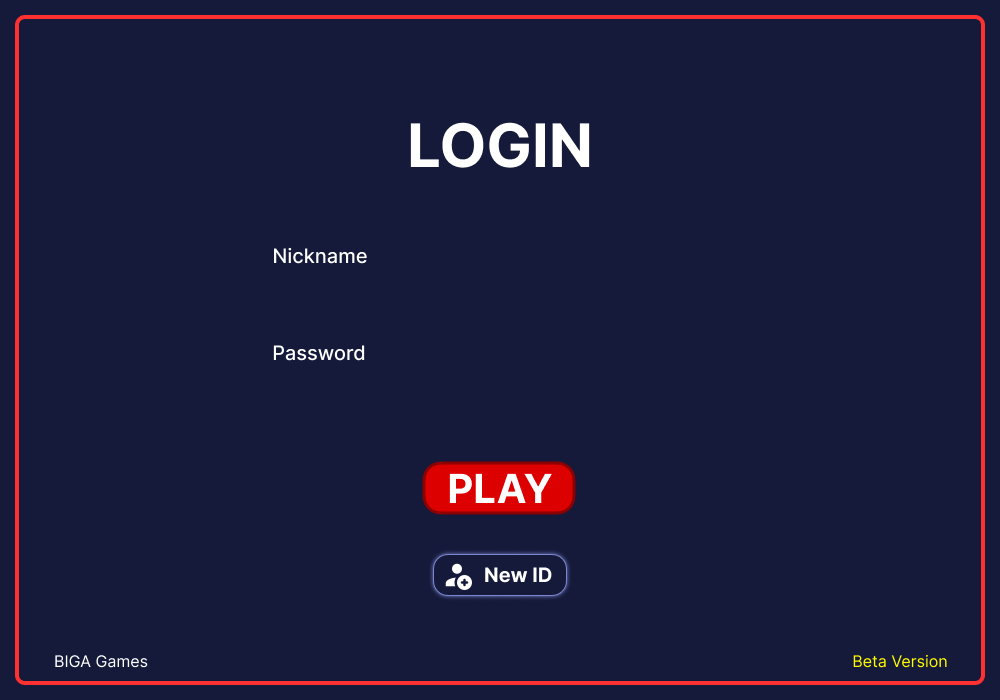
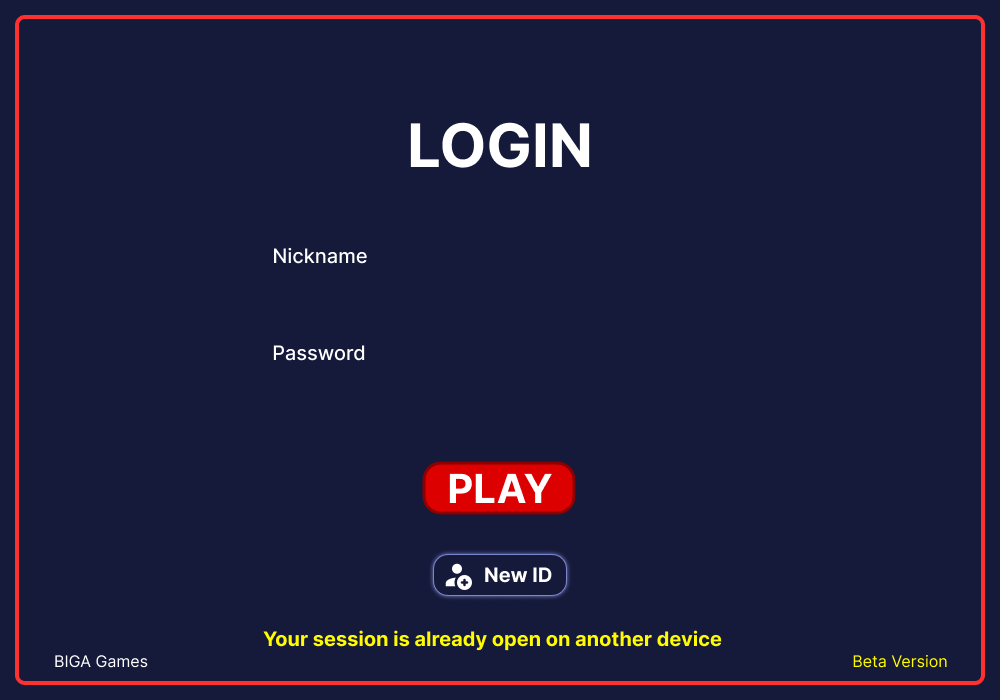
lavoro 16/06/2025 - luca

Changed region(s): [[0.248, 0.9, 0.744, 0.93]]

diff --git a/core/src/codes/sorgente/LogInSignUp/FirestoreStorage.java b/core/src/codes/sorgente/LogInSignUp/FirestoreStorage.java
@@ -8,8 +8,14 @@ import java.io.FileInputStream;
 import java.io.IOException;
 import java.util.HashMap;
 import java.util.Map;
+import java.util.concurrent.Executors;
+import java.util.concurrent.ScheduledExecutorService;
+import java.util.concurrent.TimeUnit;
 
 public class FirestoreStorage {
+    private static ScheduledExecutorService heartbeatExecutor;
+    private static int heartbeatFails = 0;
+    private static final int MAX_FAILS = 5;
 
     private static final String PROJECT_ID = "astroinvasioncloud"; // <-- cambia col tuo project id
     private static final String DATABASE_URL = "https://firestore.googleapis.com/v1/projects/" + PROJECT_ID + "/databases/(default)/documents/";
@@ -21,6 +27,7 @@ public class FirestoreStorage {
         return credentials.getAccessToken().getTokenValue();
     }
 
+    // metodo per controllare dell'esistenza del nickname sul server
     public static boolean checkUsernameExists(String username) throws IOException {
         String url = DATABASE_URL + "astroData/" + username;
 
@@ -38,6 +45,116 @@ public class FirestoreStorage {
         return responseCode == 200;
     }
 
+    // LOCK SULL'ACCESSO AL SERVER //
+    // metodo per settare lo stato di accesso dell'utente al gioco
+    public static void setUserLock(String username) throws IOException {
+        // Aggiungi updateMask per specificare quali campi aggiornare (solo 'lock')
+        String url = DATABASE_URL + "astroData/" + username + "?updateMask.fieldPaths=lock";
+
+        long timestamp = System.currentTimeMillis();
+        Map<String, Object> fields = new HashMap<>();
+        Map<String, Object> lockField = new HashMap<>();
+        lockField.put("integerValue", String.valueOf(timestamp)); // integerValue va come stringa
+        fields.put("lock", lockField);
+        Map<String, Object> document = new HashMap<>();
+        document.put("fields", fields);
+
+        Gson gson = new Gson();
+        String json = gson.toJson(document);
+
+        OkHttpClient client = new OkHttpClient();
+        RequestBody body = RequestBody.create(json, MediaType.parse("application/json"));
+        Request request = new Request.Builder()
+            .url(url)
+            .header("Authorization", "Bearer " + getAccessToken())
+            .patch(body)
+            .build();
+
+        Response response = client.newCall(request).execute();
+        System.out.println("Lock updated, response code: " + response.code());
+        response.close();
+    }
+
+    // metodo per controllare se l'utente ha già effettuato l'accesso
+    public static boolean isUserLocked(String username) throws IOException {
+        String url = DATABASE_URL + "astroData/" + username;
+
+        OkHttpClient client = new OkHttpClient();
+        Request request = new Request.Builder()
+            .url(url)
+            .header("Authorization", "Bearer " + getAccessToken())
+            .get()
+            .build();
+
+        Response response = client.newCall(request).execute();
+        String body = response.body().string();
+        response.close();
+
+        Map responseMap = new Gson().fromJson(body, Map.class);
+        Map fields = (Map) responseMap.get("fields");
+
+        if (fields == null || !fields.containsKey("lock")) {
+            return false; // non esiste il campo lock, quindi non bloccato
+        }
+
+        Map lockField = (Map) fields.get("lock");
+        long lockTimestamp = Long.parseLong((String) lockField.get("integerValue"));
+        long currentTimestamp = System.currentTimeMillis();
+
+        // Qui puoi regolare il timeout come vuoi
+        long lockDurationMillis = 10000; // 10 secondi
+
+        return (currentTimestamp - lockTimestamp) < lockDurationMillis;
+    }
+
+    // metodi per effettuare le chiamate di lock al server finché l'utente è ON
+    public static void startHeartbeat(String username) {
+        heartbeatExecutor = Executors.newSingleThreadScheduledExecutor();
+        heartbeatExecutor.scheduleAtFixedRate(() -> {
+            try {
+                setUserLock(username);
+                System.out.println("Heartbeat inviato");
+                heartbeatFails = 0;
+            } catch (IOException e) {
+                heartbeatFails++;
+                System.out.println("Heartbeat fallito (" + heartbeatFails + ")");
+                if (heartbeatFails >= MAX_FAILS) {
+                    System.out.println("Connessione persa, avvio recovery");
+                    stopHeartbeat();
+                    startRecovery(username);
+                }
+            }
+        }, 0, 30, TimeUnit.SECONDS);
+    }
+
+    public static void stopHeartbeat() {
+        if (heartbeatExecutor != null && !heartbeatExecutor.isShutdown()) {
+            heartbeatExecutor.shutdownNow();
+        }
+    }
+
+    // sistema di recovery in caso l'utente riprenda la connessione ma abbia già un'altra sessione attiva
+    public static void startRecovery(String username) {
+        ScheduledExecutorService recoveryExecutor = Executors.newSingleThreadScheduledExecutor();
+
+        recoveryExecutor.scheduleAtFixedRate(() -> {
+            try {
+                if (!isUserLocked(username)) {
+                    System.out.println("Il lock è scaduto. Permettiamo rilogin.");
+                    recoveryExecutor.shutdownNow();
+                    // qui puoi fare il rilogin automatico o notificare l'utente
+                } else {
+                    System.out.println("Lock ancora attivo, ma connessione ripristinata. Riprendo heartbeat.");
+                    recoveryExecutor.shutdownNow();
+                    startHeartbeat(username);
+                }
+            } catch (IOException e) {
+                System.out.println("Ancora problemi di connessione...");
+            }
+        }, 0, 10, TimeUnit.SECONDS);
+    }
+
+    // PASSWORD //
     // metodo per recuperare la password utente
     public static String getPassword(String username) throws IOException {
         String url = DATABASE_URL + "astroData/" + username;
@@ -91,7 +208,7 @@ public class FirestoreStorage {
         response.close();
     }
 
-
+    // DATI //
     // salva il file .dat => esegue tutto con un thread separato dal thread main di gioco
     public static void uploadDatAsync(String username, String datBase64, LoadCallback callback) {
         new Thread(() -> {

diff --git a/core/src/codes/sorgente/LogInSignUp/AuthAlgorithms.java b/core/src/codes/sorgente/LogInSignUp/AuthAlgorithms.java
@@ -34,10 +34,13 @@ public class AuthAlgorithms implements InputProcessor {
 
     // variabile per nascondere/mostrare la password e cambiare stile pulsanti
     protected boolean showPS=false, isHover1=false, isHover2=false;
-    // variabile per controllare l'errore nel nick o psw
-    protected boolean error = false;
-    // variabile per controllare l'assenza di internet
-    protected boolean error2 = false;
+
+    // variabili per gli errori durante le autenticazioni
+    protected boolean error = false; // "Password wrong"/"Nickname already in use"
+    protected boolean error1 = false; // "Nickname not found"
+    protected boolean error2 = false; // "No Internet Connection"
+    protected boolean error3 = false; // "Your session is already open on another device"
+
 
     /* pagina di riferimento
         0 = LogIn
@@ -150,27 +153,32 @@ public class AuthAlgorithms implements InputProcessor {
         nickname = sanitizeNickname(nicknameInput.toString());
 
         try {
-            // controllo esistenza del nickname
-            if (FirestoreStorage.checkUsernameExists(nickname)) {
-                String psw = FirestoreStorage.getPassword(nickname);
+            if (FirestoreStorage.isUserLocked(nickname)) {
+                error3 = true;
+            }
+            else { // utente già loggato
+                // controllo esistenza del nickname
+                if (FirestoreStorage.checkUsernameExists(nickname)) { // utente esistente
+                    String psw = FirestoreStorage.getPassword(nickname); // recupero password utente
 
-                // controllo correttezza digitazione nick e psw
-                if (!psw.contentEquals(passwordInput)) {
-                    error = true;
+                    // controllo correttezza digitazione nick e psw
+                    if (!psw.contentEquals(passwordInput)) {
+                        error = true;
+                    }
+                    else {
+                        // assegnazione della psw corretta
+                        password = passwordInput.toString();
+
+                        // cambio schermata con tutti i progressi già caricati (classe LoginSignupManager.java, riga 113)
+                        state = 2; // schermata lobby
+
+                        // manda la notifica di apertura gioco
+                        //notify.sendMessage();
+                    }
                 }
                 else {
-                    // assegnazione della psw corretta
-                    password = passwordInput.toString();
-
-                    // cambio schermata con tutti i progressi già caricati (classe LoginSignupManager.java, riga 113)
-                    state = 2; // schermata lobby
-
-                    // manda la notifica di apertura gioco
-                    //notify.sendMessage();
+                    error1 = true;
                 }
-            }
-            else {
-                System.out.println("Nickname non trovato");
             }
         }
         catch(Exception e){

diff --git a/core/src/codes/sorgente/LoadingScreen.java b/core/src/codes/sorgente/LoadingScreen.java
@@ -7,11 +7,10 @@ import com.badlogic.gdx.graphics.Color;
 import com.badlogic.gdx.graphics.GL20;
 import com.badlogic.gdx.graphics.Texture;
 import com.badlogic.gdx.graphics.g2d.SpriteBatch;
+import com.badlogic.gdx.graphics.g3d.utils.AnimationController;
 import com.badlogic.gdx.graphics.glutils.ShapeRenderer;
 import sorgente.Lobby.LobbyManager;
-import sorgente.LogInSignUp.GlobalProgressManager;
-import sorgente.LogInSignUp.LoginSignupManager;
-import sorgente.LogInSignUp.ProgressListener;
+import sorgente.LogInSignUp.*;
 
 import java.util.Random;
 
@@ -94,7 +93,10 @@ public class LoadingScreen implements Screen, ProgressListener {
             if (playMusic) game.setScreen(new LoginSignupManager(game)); // schermata di autenticazione
             else {
                 GlobalProgressManager.isInitialLoading = false; // stato di caricamento iniziale dei dati
-                game.setScreen(new LobbyManager(game)); // dalla schermata di autenticazione passerà alla lobby
+                FirestoreStorage.startHeartbeat(AuthAlgorithms.nickname); // avvio setting temporale dello stato di lock
+
+                // apertura lobby
+                game.setScreen(new LobbyManager(game));
             }
         }
     }

diff --git a/core/src/codes/sorgente/Lobby/InputManager.java b/core/src/codes/sorgente/Lobby/InputManager.java
@@ -16,6 +16,7 @@ import sorgente.DataUserManager;
 import sorgente.Entities.Avatar;
 import sorgente.Entities.Spacecraft;
 import sorgente.GameMods.ClassicGame;
+import sorgente.LogInSignUp.FirestoreStorage;
 import sorgente.LogInSignUp.GlobalProgressManager;
 import sorgente.SoundManager;
 import sorgente.GameMods.SpaceBattle;
@@ -593,6 +594,10 @@ public class InputManager implements InputProcessor {
                 SoundManager.playClickButton(soundPercent); // riproduzione suono click
                 secondScreen = open14 = false;
                 LobbyManager.soundtrack.stop();
+
+                FirestoreStorage.stopHeartbeat(); // stop setting del lock a true
+
+                // apertura schermata di autenticazione
                 LobbyManager.game.setScreen(new LoginSignupManager(LobbyManager.game));
             }
 

diff --git a/core/src/codes/sorgente/LogInSignUp/LoginSignupManager.java b/core/src/codes/sorgente/LogInSignUp/LoginSignupManager.java
@@ -101,6 +101,8 @@ public class LoginSignupManager extends ScreenAdapter implements ResourceLoader 
             case 0:
                 screen.draw(img1, 0, 0);
                 if (alg.error) fontBoldYellow20.draw(screen, "Password wrong",362,72);
+                if (alg.error1) fontBoldYellow20.draw(screen, "Nickname not found",362,72);
+                if (alg.error3) fontBoldYellow20.draw(screen, "Your session is already open on another device",330,72);
                 break;
             case 1:
                 screen.draw(img2, 0, 0);
